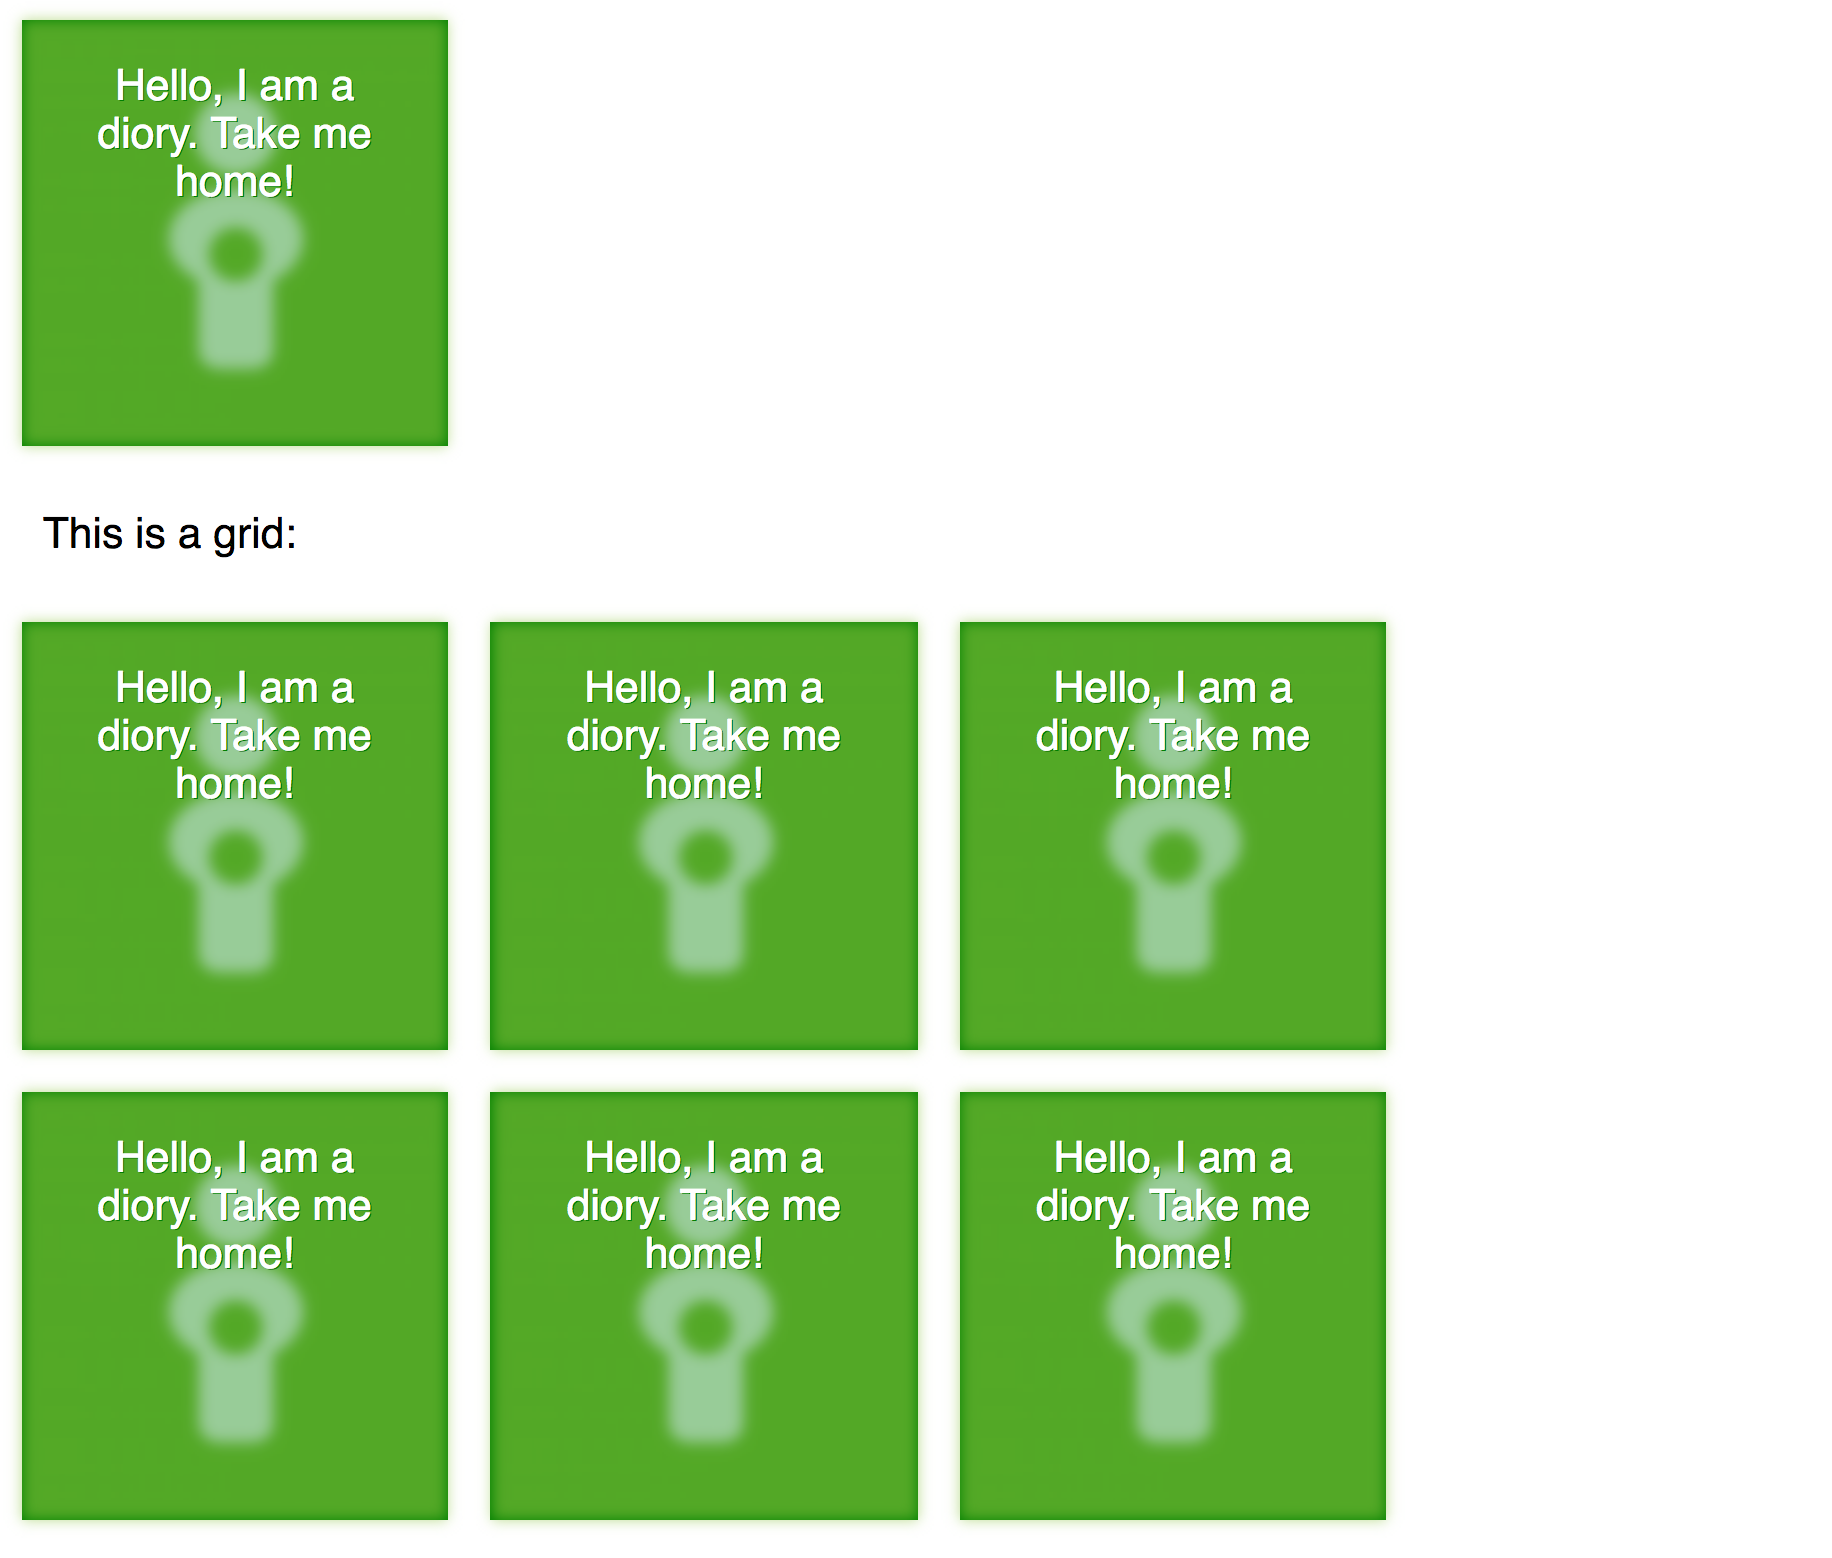
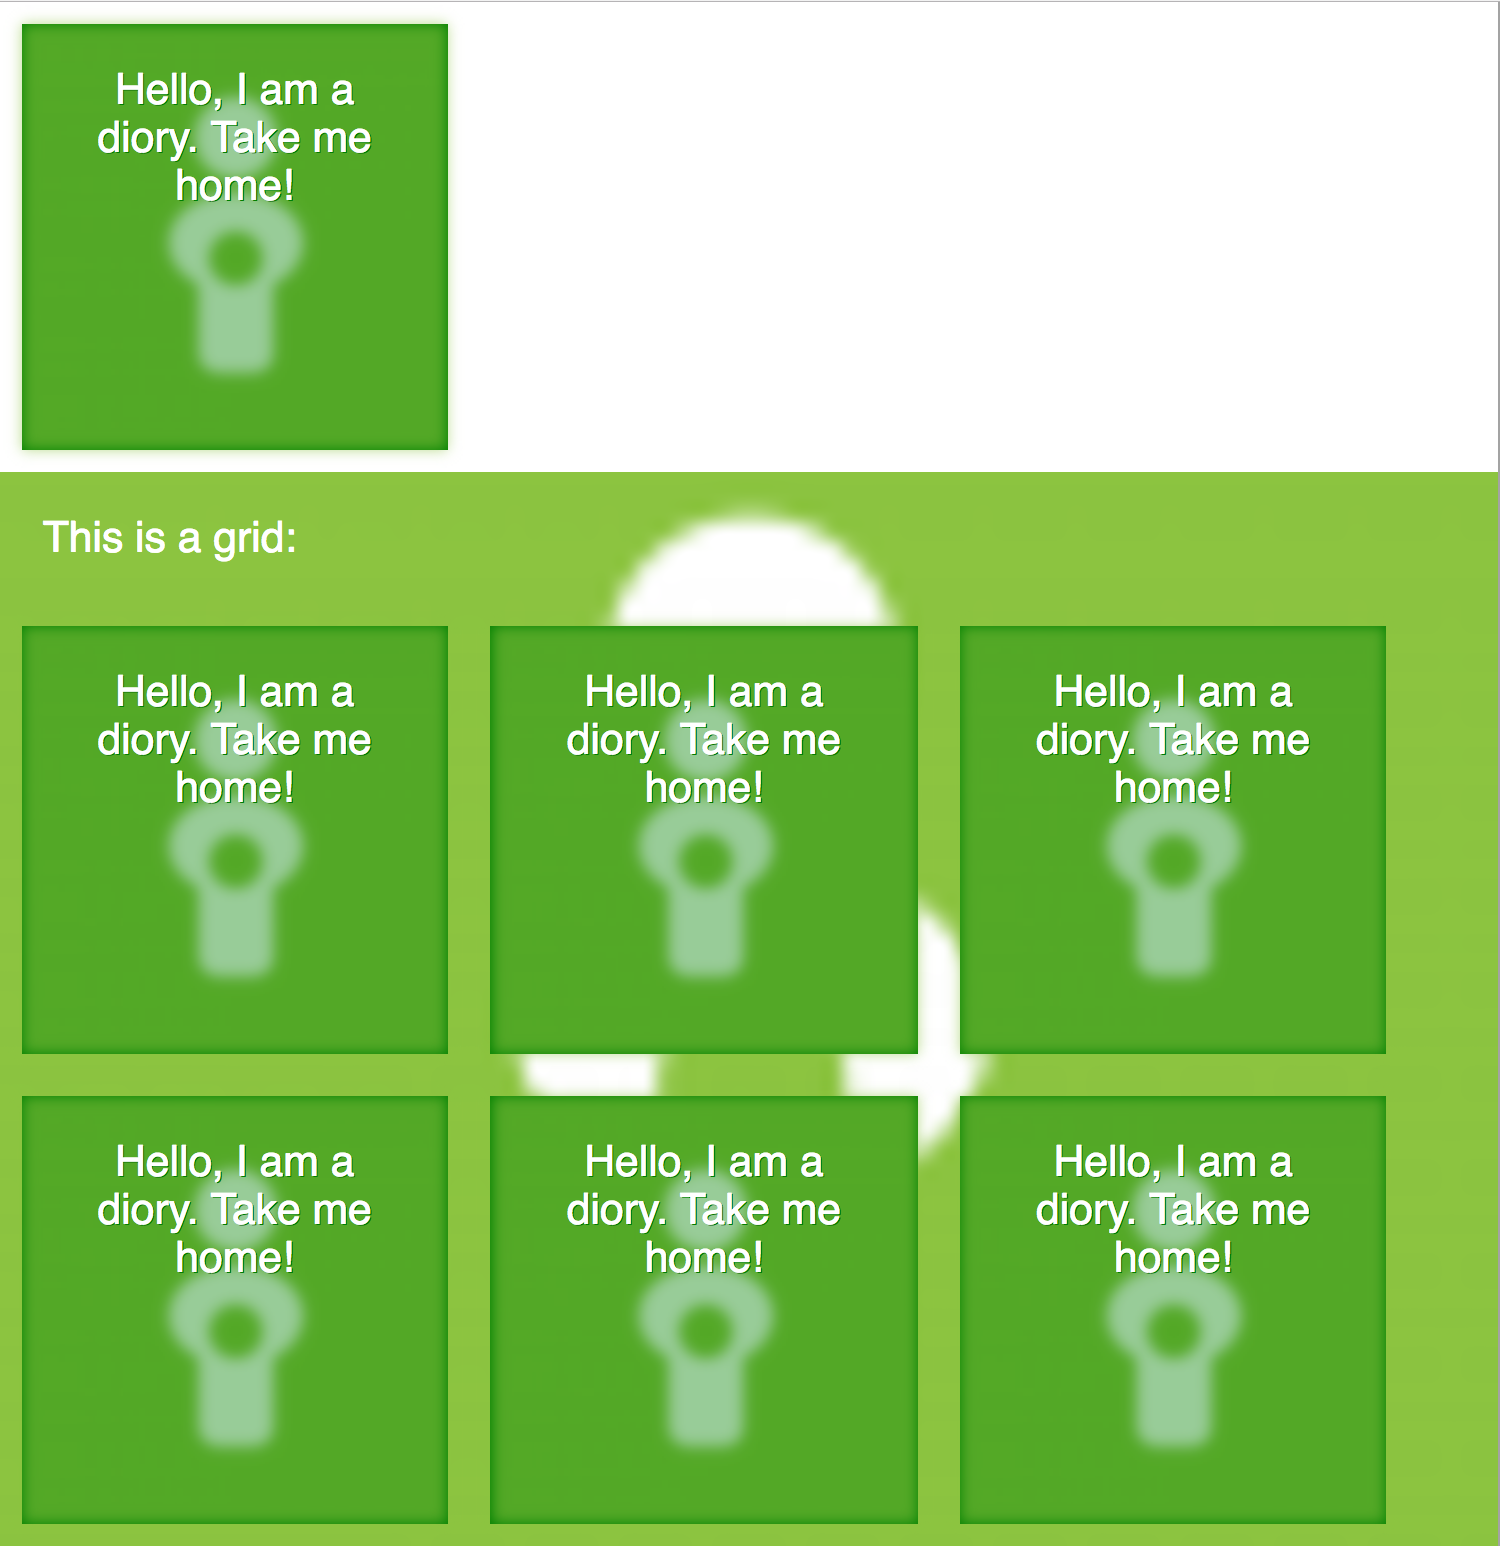
add background to diory grid example

diff --git a/example/DioryExample.js b/example/DioryExample.js
@@ -13,8 +13,9 @@ const diory = {
 
 const dioryGrid = {
   text: 'This is a grid:',
+  image: 'https://gravatar.com/avatar/ff80f8f9bc52f1b79e468a41f2239001',
   styles: {
-    text: { fontSize: '2em', fontFamily: 'sans-serif' }
+    text: { fontSize: '2em', fontFamily: 'sans-serif', color: 'white' }
   },
   diorys: {
     1: diory,

diff --git a/README.md b/README.md
@@ -34,6 +34,7 @@ const diory = {
 ```js
 const dioryGrid = {
   text: 'This is a grid:',
+  image: 'https://gravatar.com/avatar/ff80f8f9bc52f1b79e468a41f2239001',
   styles: {
     text: { fontSize: '2em', fontFamily: 'sans-serif' }
   },
